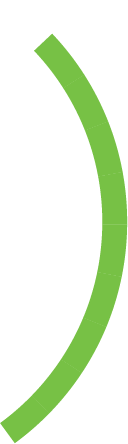
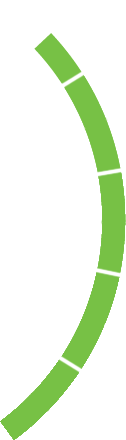
segmented the co2 and temp meters fixes #46

diff --git a/containers.js b/containers.js
@@ -83,10 +83,10 @@ var containers = [
         name: "co2",
         isFrame: true,
         items: 9,
-        width: 128,
-        height: 444,
-        x: 562,
-        y: 344,
+        width: 126,
+        height: 440,
+        x: 563,
+        y: 346,
         path: "./images/animations/co2Meter/co2Meter",
         ext: ".png",
         macaroni: {
@@ -98,10 +98,10 @@ var containers = [
         name: "temperature",
         isFrame: true,
         items: 9,
-        width: 151,
-        height: 525,
-        x: 587,
-        y: 306,
+        width: 148,
+        height: 522,
+        x: 589,
+        y: 307,
         path: "./images/animations/tempMeter/tempMeter",
         ext: ".png",
         macaroni: {
